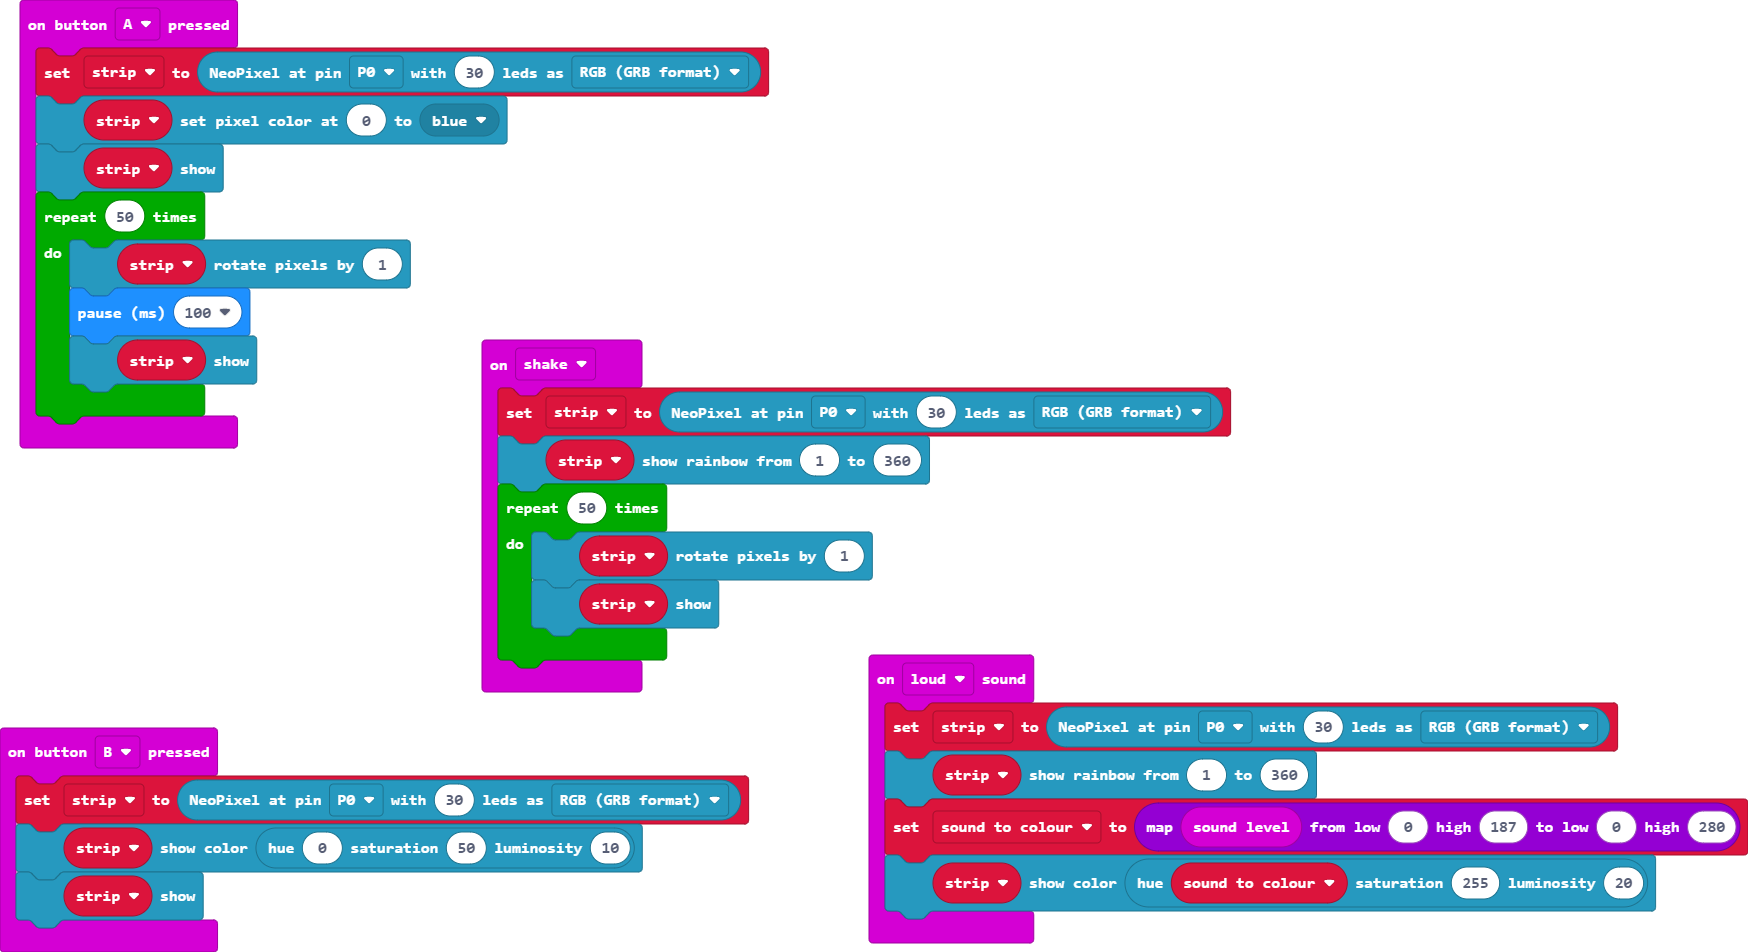
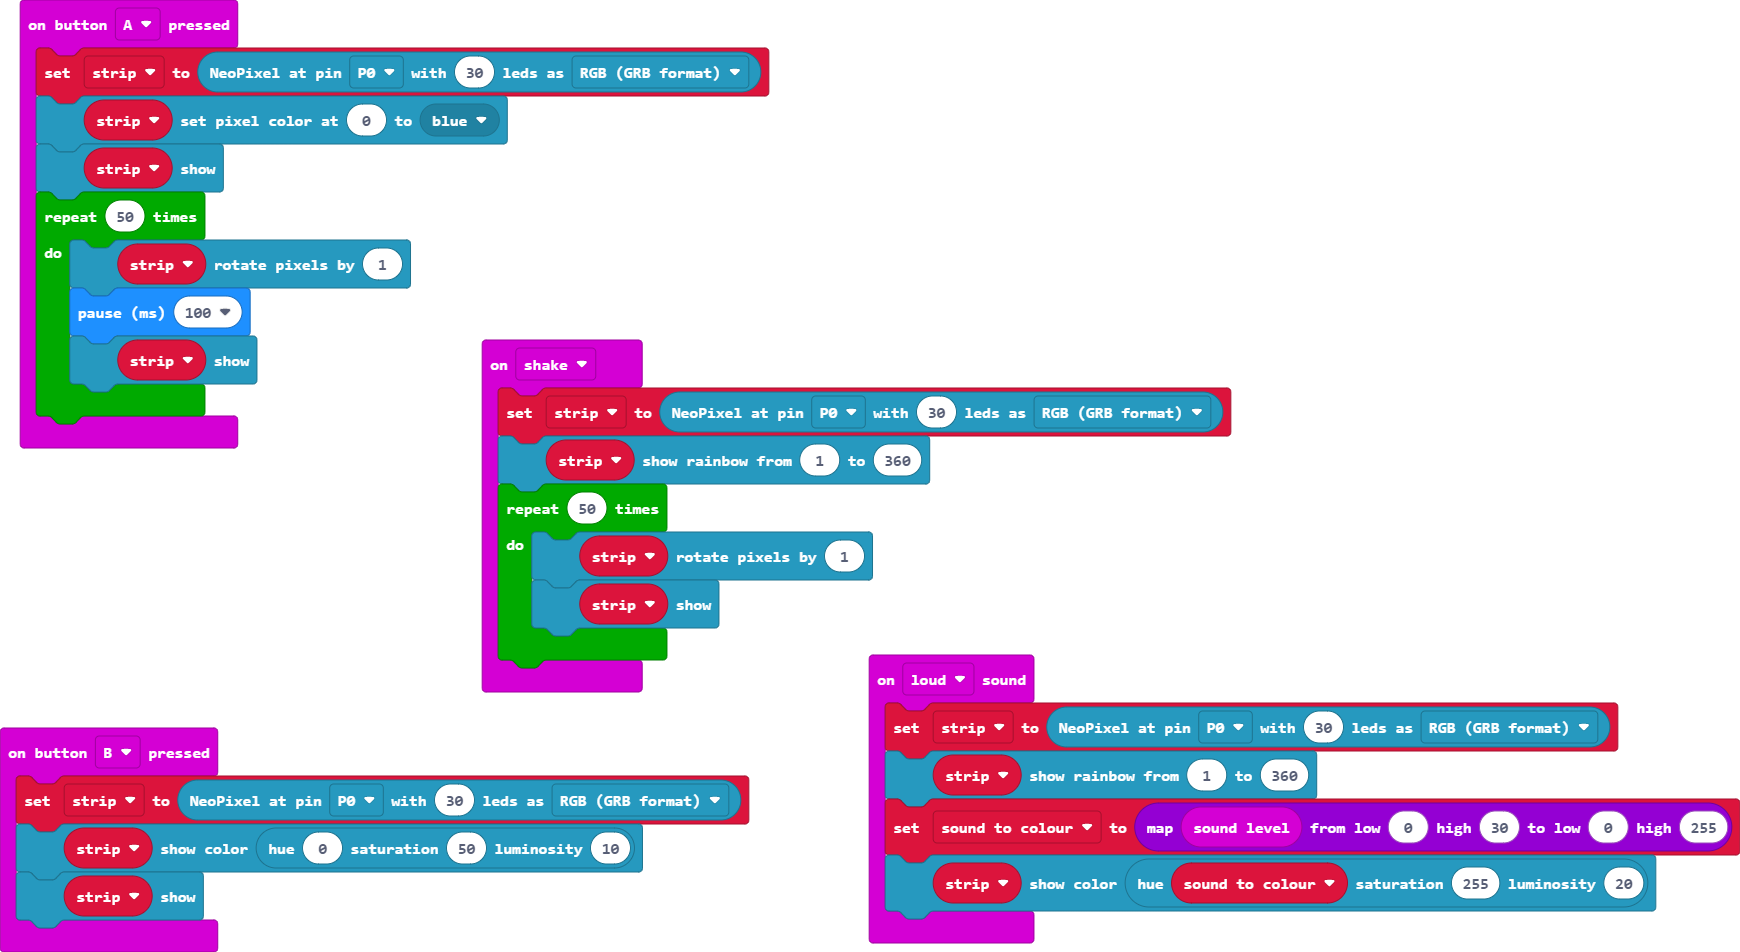
Update main.blocks, main.ts

diff --git a/main.ts b/main.ts
@@ -13,7 +13,7 @@ input.onButtonPressed(Button.A, function () {
 input.onSound(DetectedSound.Loud, function () {
     strip = neopixel.create(DigitalPin.P0, 30, NeoPixelMode.RGB)
     strip.showRainbow(1, 360)
-    sound_to_colour = Math.map(input.soundLevel(), 0, 187, 0, 280)
+    sound_to_colour = Math.map(input.soundLevel(), 0, 30, 0, 255)
     strip.showColor(neopixel.hsl(sound_to_colour, 255, 20))
 })
 input.onButtonPressed(Button.B, function () {
